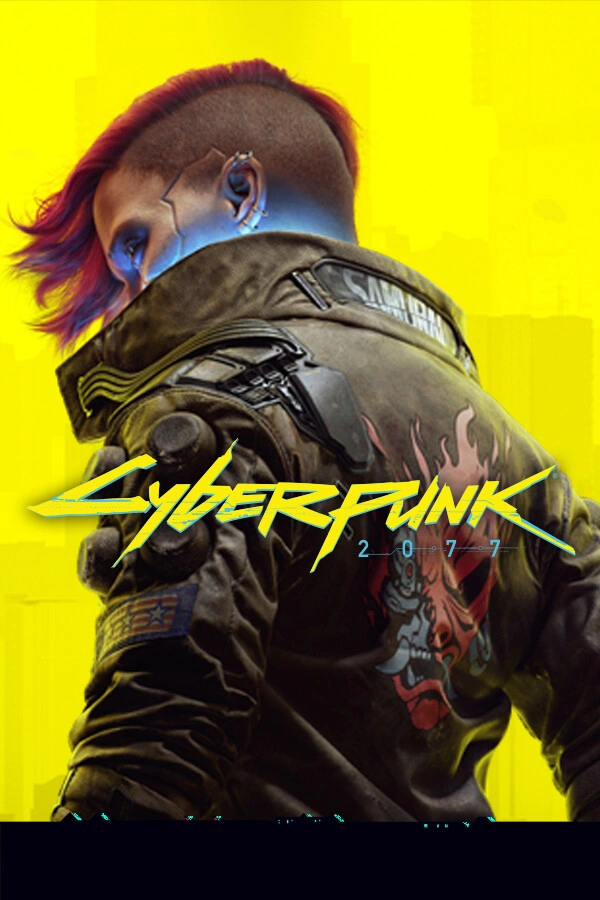
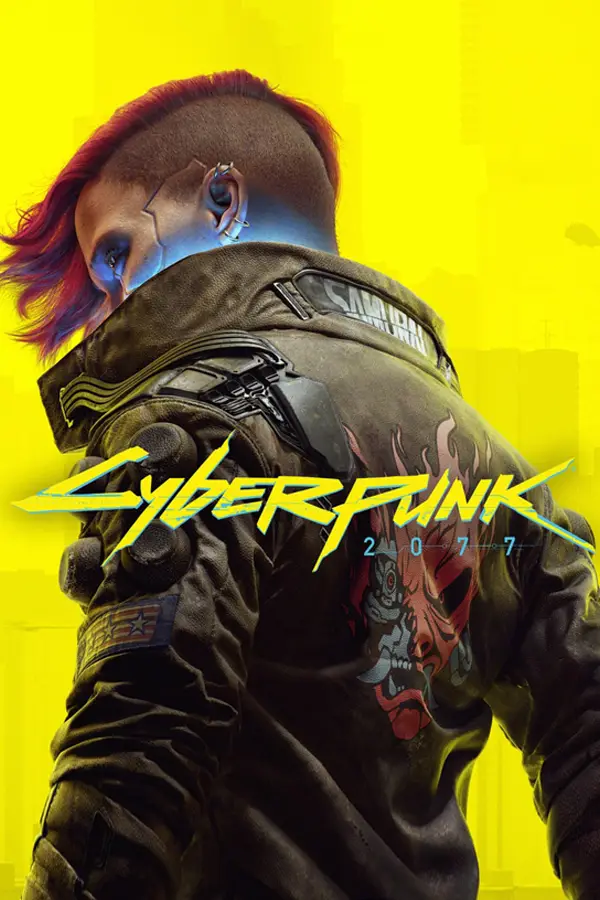
Updated artwork and references

diff --git a/src/NexusMods.Games.RedEngine/Cyberpunk2077/Cyberpunk2077Game.cs b/src/NexusMods.Games.RedEngine/Cyberpunk2077/Cyberpunk2077Game.cs
@@ -86,10 +86,10 @@ public class Cyberpunk2077Game : AGame, ISteamGame, IGogGame, IEpicGame
     public IEnumerable<string> EpicCatalogItemId => new[] { "5beededaad9743df90e8f07d92df153f" };
 
     public override IStreamFactory Icon =>
-        new EmbededResourceStreamFactory<Cyberpunk2077Game>("NexusMods.Games.RedEngine.Resources.Cyberpunk2077.icon.png");
+        new EmbededResourceStreamFactory<Cyberpunk2077Game>("NexusMods.Games.RedEngine.Resources.Cyberpunk2077.thumbnail.webp");
 
     public override IStreamFactory GameImage =>
-        new EmbededResourceStreamFactory<Cyberpunk2077Game>("NexusMods.Games.RedEngine.Resources.Cyberpunk2077.game_image.jpg");
+        new EmbededResourceStreamFactory<Cyberpunk2077Game>("NexusMods.Games.RedEngine.Resources.Cyberpunk2077.tile.webp");
     
     public override IDiagnosticEmitter[] DiagnosticEmitters =>
     [

diff --git a/src/NexusMods.Games.MountAndBlade2Bannerlord/Bannerlord.cs b/src/NexusMods.Games.MountAndBlade2Bannerlord/Bannerlord.cs
@@ -60,10 +60,10 @@ public sealed class Bannerlord : AGame, ISteamGame, IGogGame, IXboxGame//, IEpic
     public IEnumerable<string> XboxIds => ["TaleWorldsEntertainment.MountBladeIIBannerlord"];
 
     public override IStreamFactory Icon =>
-        new EmbededResourceStreamFactory<Bannerlord>("NexusMods.Games.MountAndBlade2Bannerlord.Resources.icon.png");
+        new EmbededResourceStreamFactory<Bannerlord>("NexusMods.Games.MountAndBlade2Bannerlord.Resources.thumbnail.webp");
 
     public override IStreamFactory GameImage =>
-        new EmbededResourceStreamFactory<Bannerlord>("NexusMods.Games.MountAndBlade2Bannerlord.Resources.game_image.jpg");
+        new EmbededResourceStreamFactory<Bannerlord>("NexusMods.Games.MountAndBlade2Bannerlord.Resources.tile.webp");
 
     public override ILibraryItemInstaller[] LibraryItemInstallers =>
     [

diff --git a/src/NexusMods.Games.Larian/BaldursGate3/BaldursGate3.cs b/src/NexusMods.Games.Larian/BaldursGate3/BaldursGate3.cs
@@ -156,8 +156,8 @@ public class BaldursGate3 : AGame, ISteamGame, IGogGame
 
     // TODO: We are using Icon for both Spine and GameWidget and GameImage is unused. We should use GameImage for the GameWidget, but need to update all the games to have better images.
     public override IStreamFactory Icon =>
-        new EmbededResourceStreamFactory<BaldursGate3>("NexusMods.Games.Larian.Resources.BaldursGate3.icon.png");
+        new EmbededResourceStreamFactory<BaldursGate3>("NexusMods.Games.Larian.Resources.BaldursGate3.thumbnail.webp");
 
     public override IStreamFactory GameImage =>
-        new EmbededResourceStreamFactory<BaldursGate3>("NexusMods.Games.Larian.Resources.BaldursGate3.icon.png");
+        new EmbededResourceStreamFactory<BaldursGate3>("NexusMods.Games.Larian.Resources.BaldursGate3.tile.webp");
 }
